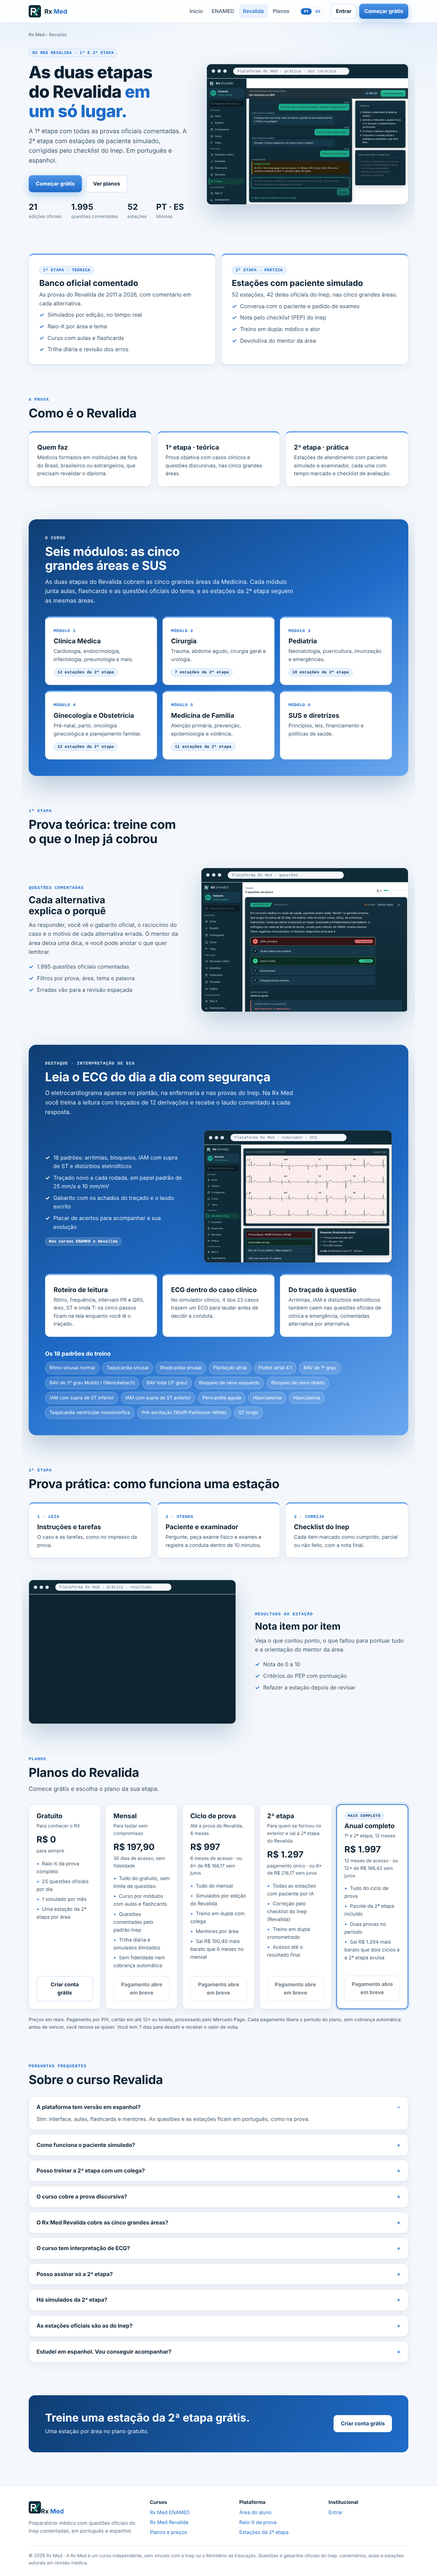
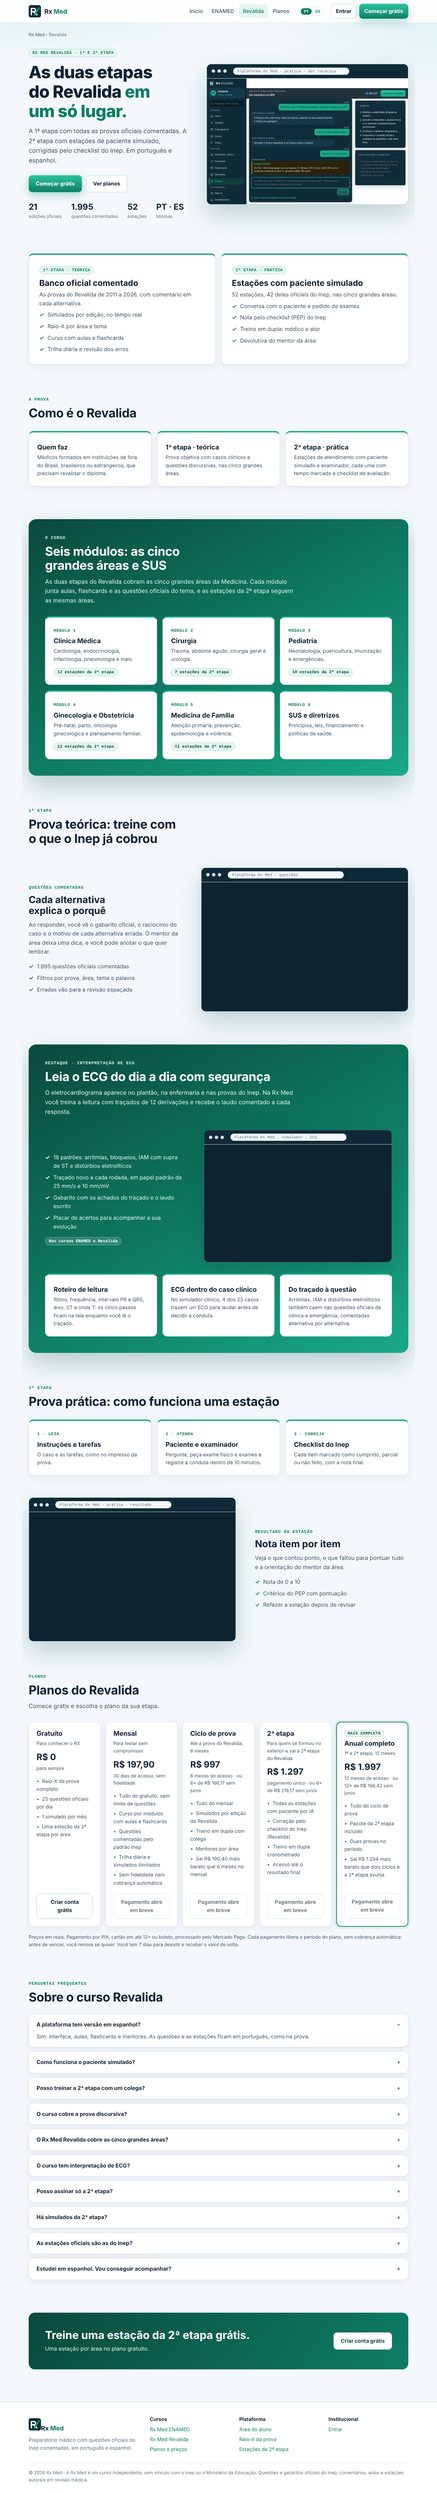
Site: Revalida em fundo claro com o verde da marca, sem a lista de padrões de ECG
- Página do Revalida: blocos e destaques no verde padrão (antes azul)
- Remove a lista dos padrões de ECG das páginas
- site.css com versão no link para o navegador não usar a folha antiga do cache

Claude-Session: https://claude.ai/code/session_01XC3RWuP12k3CEFXbjwtph3

diff --git a/site/site.css b/site/site.css
@@ -227,30 +227,26 @@ img { max-width: 100%; height: auto; display: block; }
 span.marca-simbolo { display: grid; place-items: center; border-radius: 10px; background: #102B38; border: 1px solid var(--linha); padding: 5px; }
 span.marca-simbolo svg { width: 100%; height: 100%; }
 
-/* recursos, faixa de destaque e fichas do ECG */
 .grade-4 { grid-template-columns: repeat(4, 1fr); gap: 14px; }
 .recurso .n { color: var(--tinta-3); }
 .recurso.so-revalida .n { color: var(--azul); }
 .faixa { padding: 48px; border-radius: 22px; border: 1px solid var(--cb); background: linear-gradient(160deg, var(--cs), rgb(16 43 56 / 0.4) 60%); }
 .faixa .tour { margin-top: 40px; }
-.fichas-titulo { margin-top: 40px; font-size: 1.05rem; }
-.fichas { list-style: none; margin: 14px 0 0; padding: 0; display: flex; flex-wrap: wrap; gap: 8px; }
-.fichas li { padding: 6px 12px; border-radius: 999px; border: 1px solid var(--cb); background: var(--folha); color: var(--tinta-2); font-size: 0.85rem; }
 .tabela-escolha th.col-revalida { color: var(--azul); }
 .tabela-escolha td { vertical-align: top; }
 .bloco .etiqueta { margin-top: 14px; }
 @media (max-width: 1000px) { .grade-4 { grid-template-columns: repeat(2, 1fr); } }
 @media (max-width: 760px) { .faixa { padding: 24px 18px; } .grade-4 { grid-template-columns: 1fr; } }
 
-/* ------------------------------------------------------------------ página do Revalida: fundo branco e blocos em azul */
+/* ------------------------------------------------------------------ página do Revalida: fundo branco e blocos no verde da marca */
 .tema-claro {
   --papel: #F4F8FC; --folha: #FFFFFF; --folha-2: #FFFFFF;
   --tinta: #0E2233; --tinta-2: #3E5568; --tinta-3: #5C7184; --linha: #D7E3EF;
-  --azul-forte: #1F6CC9; --azul-escuro: #0F3E73;
-  --c: var(--azul-forte); --cs: #E9F2FD; --cb: #B8D3F4;
+  --azul: #19A987; --azul-forte: #0E7D63; --azul-escuro: #0A4A3D;
+  --c: var(--azul-forte); --cs: #E5F6F0; --cb: #A6DCCB;
   color-scheme: light;
-  background: radial-gradient(60rem 30rem at 10% -10rem, rgb(106 168 240 / 0.28), transparent 70%),
-    radial-gradient(50rem 26rem at 100% 0, rgb(106 168 240 / 0.14), transparent 70%), var(--papel);
+  background: radial-gradient(60rem 30rem at 10% -10rem, rgb(25 169 135 / 0.20), transparent 70%),
+    radial-gradient(50rem 26rem at 100% 0, rgb(25 169 135 / 0.10), transparent 70%), var(--papel);
 }
 .tema-claro::before { background: #fff; }
 .tema-claro a { color: var(--azul-forte); }
@@ -262,29 +258,26 @@ span.marca-simbolo svg { width: 100%; height: 100%; }
 .tema-claro .menu a:hover, .tema-claro .menu a[aria-current="page"] { color: var(--azul-forte); background: var(--cs); }
 .tema-claro .idioma a[aria-current="true"] { background: var(--azul-forte); color: #fff; }
 .tema-claro .botao { background: #fff; color: var(--tinta); border-color: var(--cb); }
-.tema-claro .botao-primario { background: linear-gradient(180deg, #4C93E6, var(--azul-forte)); border-color: #4C93E6; color: #fff; box-shadow: 0 8px 24px rgb(31 108 201 / 0.3); }
+.tema-claro .botao-primario { background: linear-gradient(180deg, #2BC29D, var(--azul-forte)); border-color: #2BC29D; color: #fff; box-shadow: 0 8px 24px rgb(14 125 99 / 0.3); }
 .tema-claro .cartao { background: #fff; border-color: var(--linha); box-shadow: 0 1px 2px rgb(14 34 51 / 0.05), 0 8px 24px rgb(14 34 51 / 0.06); }
 .tema-claro .bloco, .tema-claro .etapa { border-top: 4px solid var(--azul); }
 .tema-claro .lista-check li::before { color: var(--azul-forte); }
-.tema-claro .janela { border-color: #c9d9ea; box-shadow: 0 30px 70px rgb(15 62 115 / 0.22); }
+.tema-claro .janela { border-color: #c4e3d9; box-shadow: 0 30px 70px rgb(10 74 61 / 0.22); }
 .tema-claro .etiqueta { color: var(--azul-escuro); border-color: var(--cb); background: var(--cs); }
 .tema-claro .aviso-lancamento { background: var(--cs); border-color: var(--cb); color: var(--tinta-2); }
-.tema-claro .plano.destaque { border-color: var(--azul-forte); box-shadow: 0 0 0 6px rgb(31 108 201 / 0.1); }
+.tema-claro .plano.destaque { border-color: var(--azul-forte); box-shadow: 0 0 0 6px rgb(14 125 99 / 0.1); }
 .tema-claro .plano-selo { color: var(--azul-escuro); background: var(--cs); border-color: var(--cb); }
 .tema-claro .plano li::before { color: var(--azul-forte); }
 .tema-claro .faq summary::after { color: var(--azul-forte); }
-.tema-claro .fichas li { background: #fff; color: var(--azul-escuro); }
-/* blocos em destaque: faixa azul cheia com cartões brancos por cima */
-.tema-claro .faixa { background: linear-gradient(150deg, var(--azul-escuro), var(--azul-forte) 55%, var(--azul)); border: 0; color: #fff; box-shadow: 0 30px 70px rgb(15 62 115 / 0.25); }
-.tema-claro .faixa > .secao-cab h2, .tema-claro .faixa .tour h3, .tema-claro .faixa .fichas-titulo { color: #fff; }
-.tema-claro .faixa .olho, .tema-claro .faixa > .secao-cab p, .tema-claro .faixa .tour-texto .lista-check, .tema-claro .faixa .tour-texto p { color: #E3EEFC; }
+/* blocos em destaque: faixa verde cheia com cartões brancos por cima */
+.tema-claro .faixa { background: linear-gradient(150deg, var(--azul-escuro), var(--azul-forte) 55%, var(--azul)); border: 0; color: #fff; box-shadow: 0 30px 70px rgb(10 74 61 / 0.25); }
+.tema-claro .faixa .olho, .tema-claro .faixa > .secao-cab p, .tema-claro .faixa .tour-texto .lista-check, .tema-claro .faixa .tour-texto p { color: #E2F6EF; }
 .tema-claro .faixa .tour-texto .lista-check li::before { color: #fff; }
 .tema-claro .faixa .tour-texto .etiqueta { color: #fff; background: rgb(255 255 255 / 0.14); border-color: rgb(255 255 255 / 0.35); }
 .tema-claro .faixa .cartao { border-top-color: var(--azul); box-shadow: none; color: var(--tinta); }
-.tema-claro .faixa .fichas li { background: rgb(255 255 255 / 0.14); border-color: rgb(255 255 255 / 0.35); color: #fff; }
 .tema-claro .faixa .janela { border-color: rgb(255 255 255 / 0.3); }
 .tema-claro .chamada { background: linear-gradient(120deg, var(--azul-escuro), var(--azul-forte)); border: 0; color: #fff; }
-.tema-claro .chamada .mudo { color: #E3EEFC; }
+.tema-claro .chamada .mudo { color: #E2F6EF; }
 .tema-claro .chamada .botao-primario { background: #fff; color: var(--azul-escuro); border-color: #fff; box-shadow: none; }
 .tema-claro .rodape { background: #fff; }
 .tema-claro .rodape-colunas a:hover { color: var(--azul-forte); }
